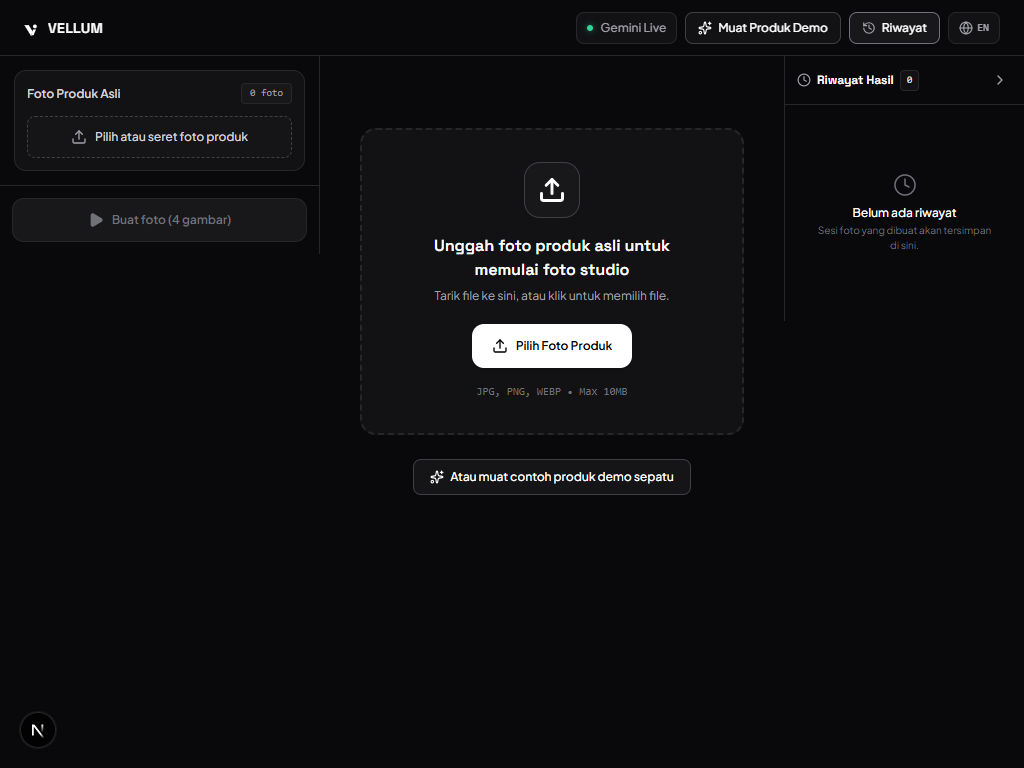
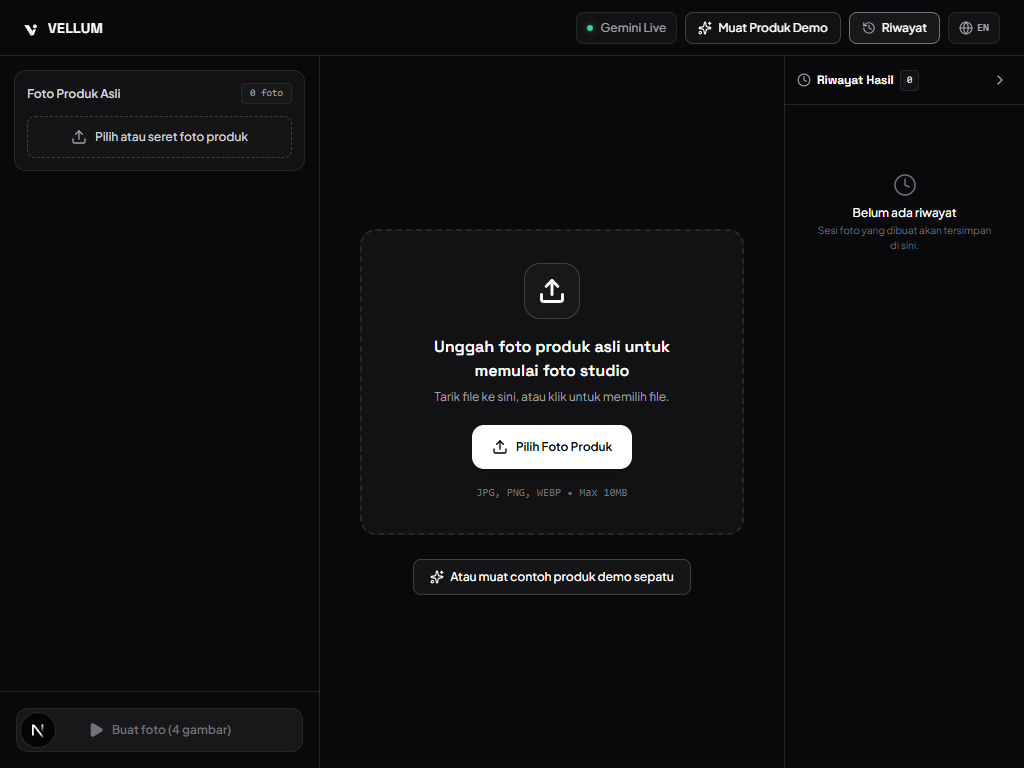
feat(desktop): make left sidebar independently scrollable with sticky action button

diff --git a/components/studio/StudioDesktop.tsx b/components/studio/StudioDesktop.tsx
@@ -78,13 +78,13 @@ export function StudioDesktop({ session }: StudioDesktopProps) {
   const primarySourceImage = sourceImages[0];
 
   return (
-    <div className="flex-1 flex w-full max-w-[1560px] mx-auto h-[calc(100vh-56px)] overflow-hidden bg-studio-bg text-studio-text select-none">
+    <div className="flex-1 flex w-full max-w-[1560px] mx-auto h-full overflow-hidden bg-studio-bg text-studio-text select-none">
       {/* ========================================================= */}
-      {/* 1. LEFT CONTROL PANEL (320px Sticky)                      */}
+      {/* 1. LEFT CONTROL PANEL (320px Independent Scrollable)     */}
       {/* ========================================================= */}
-      <aside className="w-[320px] min-w-[320px] max-w-[320px] border-r border-studio-border bg-studio-bg flex flex-col h-full shrink-0">
+      <aside className="w-[320px] min-w-[320px] max-w-[320px] border-r border-studio-border bg-studio-bg h-full overflow-y-auto overscroll-contain flex flex-col scrollbar-studio relative shrink-0">
         {/* Scrollable control items */}
-        <div className="flex-1 overflow-y-auto p-3.5 space-y-3.5">
+        <div className="p-3.5 space-y-3.5 flex-1">
           {/* 1. Upload Produk */}
           <div className="card-studio p-3 space-y-2">
             <ProductSourceUpload
@@ -251,7 +251,7 @@ export function StudioDesktop({ session }: StudioDesktopProps) {
         </div>
 
         {/* Sticky Action Button at bottom */}
-        <div className="p-3 border-t border-studio-border bg-studio-bg/95 sticky bottom-0 z-10">
+        <div className="sticky bottom-0 bg-zinc-950/90 backdrop-blur-sm p-4 border-t border-zinc-800 z-20 mt-auto">
           <button
             type="button"
             id="desktop-main-generate-btn"
@@ -281,7 +281,7 @@ export function StudioDesktop({ session }: StudioDesktopProps) {
       {/* ========================================================= */}
       {/* 2. CENTER CANVAS (Dominant Result Viewport)               */}
       {/* ========================================================= */}
-      <main className="flex-1 flex flex-col min-h-0 h-full overflow-y-auto p-6 bg-studio-bg">
+      <main className="flex-1 flex flex-col min-h-0 h-full overflow-y-auto overscroll-contain p-6 bg-studio-bg scrollbar-studio">
         {/* Error Notice */}
         {errorMessage && (
           <div className="mb-4 p-3 rounded-xl bg-red-950/60 border border-red-800 text-xs text-red-200 flex items-center justify-between">
@@ -512,7 +512,7 @@ export function StudioDesktop({ session }: StudioDesktopProps) {
             </div>
 
             {/* History list */}
-            <div className="flex-1 overflow-y-auto p-3 space-y-2.5">
+            <div className="flex-1 overflow-y-auto overscroll-contain p-3 space-y-2.5 scrollbar-studio">
               {historyItems.length === 0 ? (
                 <div className="h-48 flex flex-col items-center justify-center text-center p-4 text-studio-muted">
                   <Clock className="w-6 h-6 mb-2 stroke-[1.5] text-studio-dim" />

diff --git a/app/page.tsx b/app/page.tsx
@@ -65,7 +65,7 @@ export default function Home() {
   ]);
 
   return (
-    <div className="min-h-[100dvh] flex flex-col font-sans bg-studio-bg text-studio-text overflow-x-hidden selection:bg-studio-accent/30 selection:text-white">
+    <div className="h-screen max-h-screen flex flex-col font-sans bg-studio-bg text-studio-text overflow-hidden selection:bg-studio-accent/30 selection:text-white">
       {/* Top Header */}
       <Header
         onLoadDemoProduct={session.handleLoadDemoProduct}
@@ -84,12 +84,12 @@ export default function Home() {
       />
 
       {/* MOBILE LAYOUT (<1024px, base 390px, clean down to 360px) */}
-      <div className="block lg:hidden w-full flex-1 flex flex-col min-h-0">
+      <div className="block lg:hidden w-full h-[calc(100vh-3.5rem)] overflow-y-auto overscroll-contain">
         <StudioMobile session={session} />
       </div>
 
       {/* DESKTOP LAYOUT (>=1024px, optimal 1440px) */}
-      <div className="hidden lg:flex w-full flex-1 flex-col min-h-0">
+      <div className="hidden lg:flex w-full h-[calc(100vh-3.5rem)] overflow-hidden flex">
         <StudioDesktop session={session} />
       </div>
     </div>

diff --git a/app/globals.css b/app/globals.css
@@ -212,6 +212,26 @@ input[type="range"] {
   background: var(--border-default);
 }
 
+/* Minimalist Dark Mode Scrollbar for sidebars & canvas */
+.scrollbar-studio {
+  scrollbar-width: thin;
+  scrollbar-color: #27272a transparent;
+}
+.scrollbar-studio::-webkit-scrollbar {
+  width: 5px;
+  height: 5px;
+}
+.scrollbar-studio::-webkit-scrollbar-track {
+  background: transparent;
+}
+.scrollbar-studio::-webkit-scrollbar-thumb {
+  background-color: #27272a;
+  border-radius: 9999px;
+}
+.scrollbar-studio::-webkit-scrollbar-thumb:hover {
+  background-color: #3f3f46;
+}
+
 .no-scrollbar::-webkit-scrollbar { display: none; }
 .no-scrollbar { -ms-overflow-style: none; scrollbar-width: none; }
 
